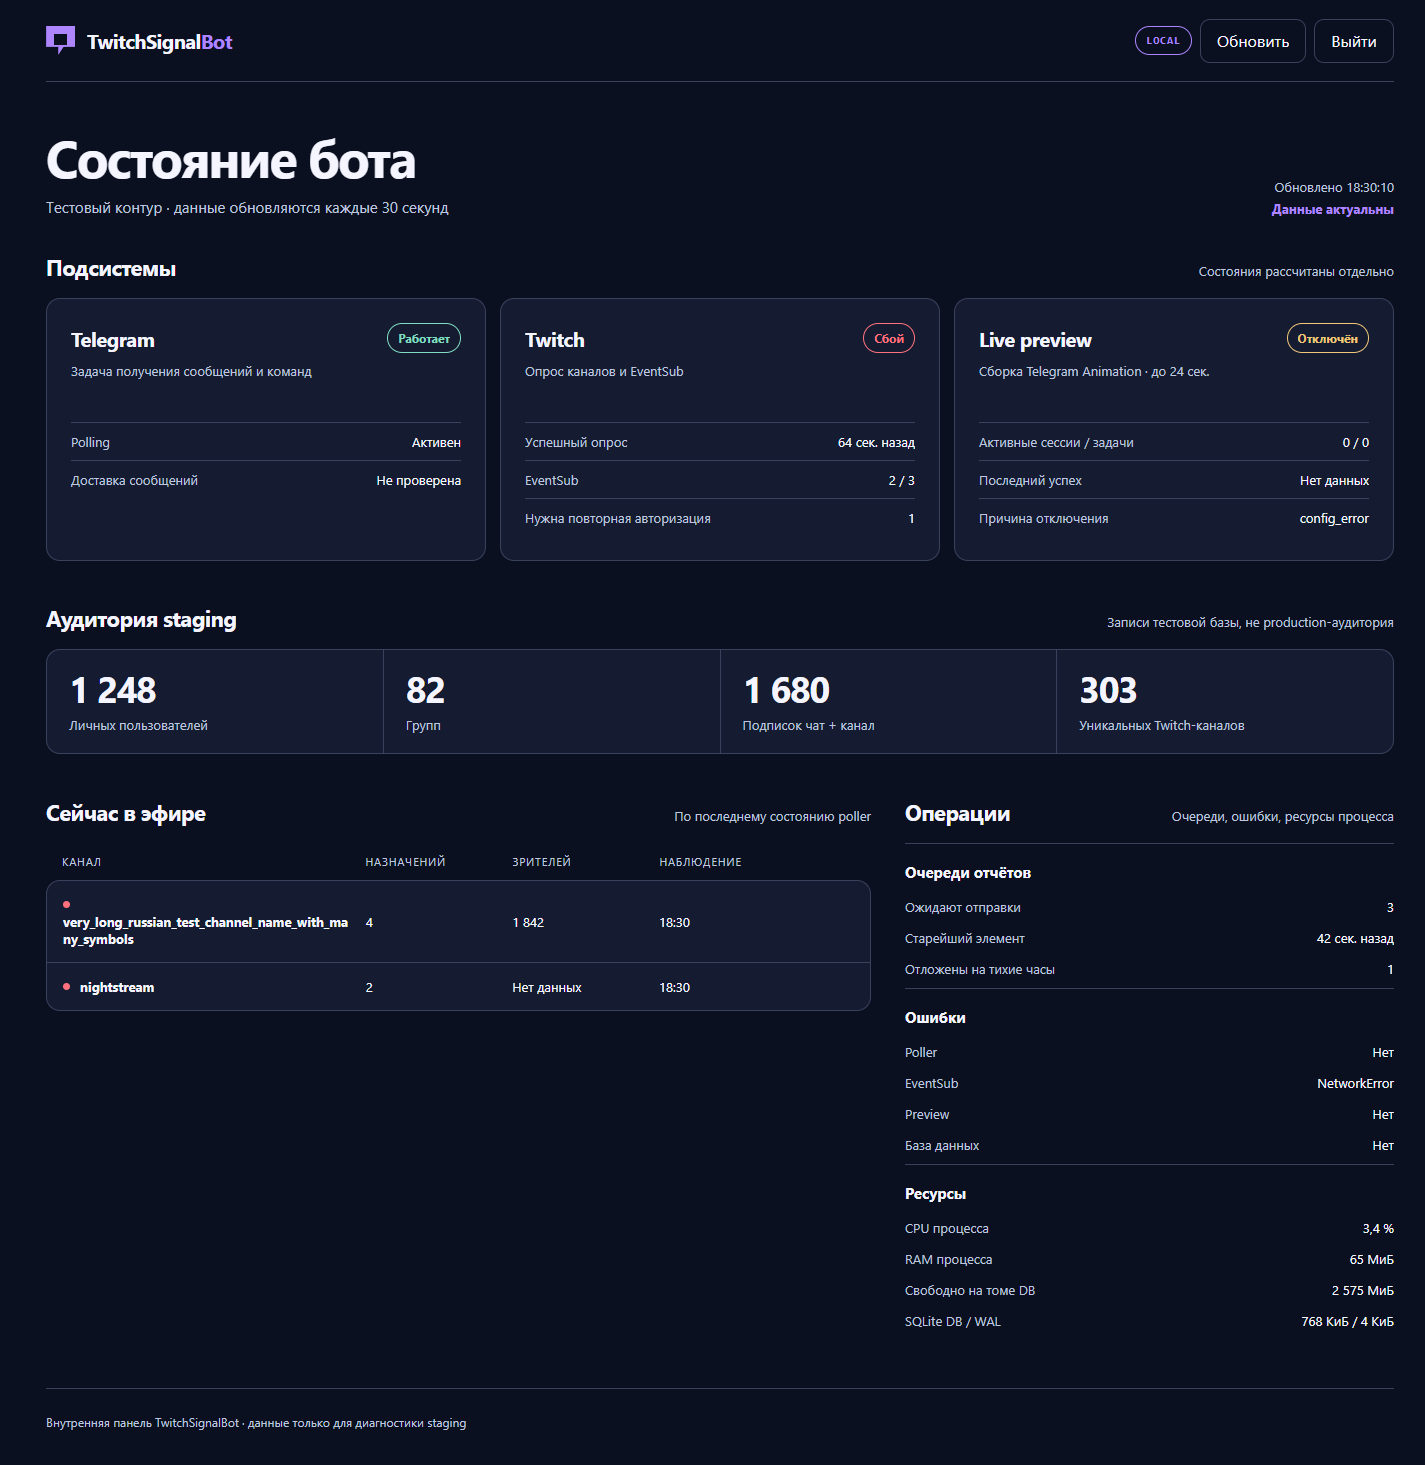
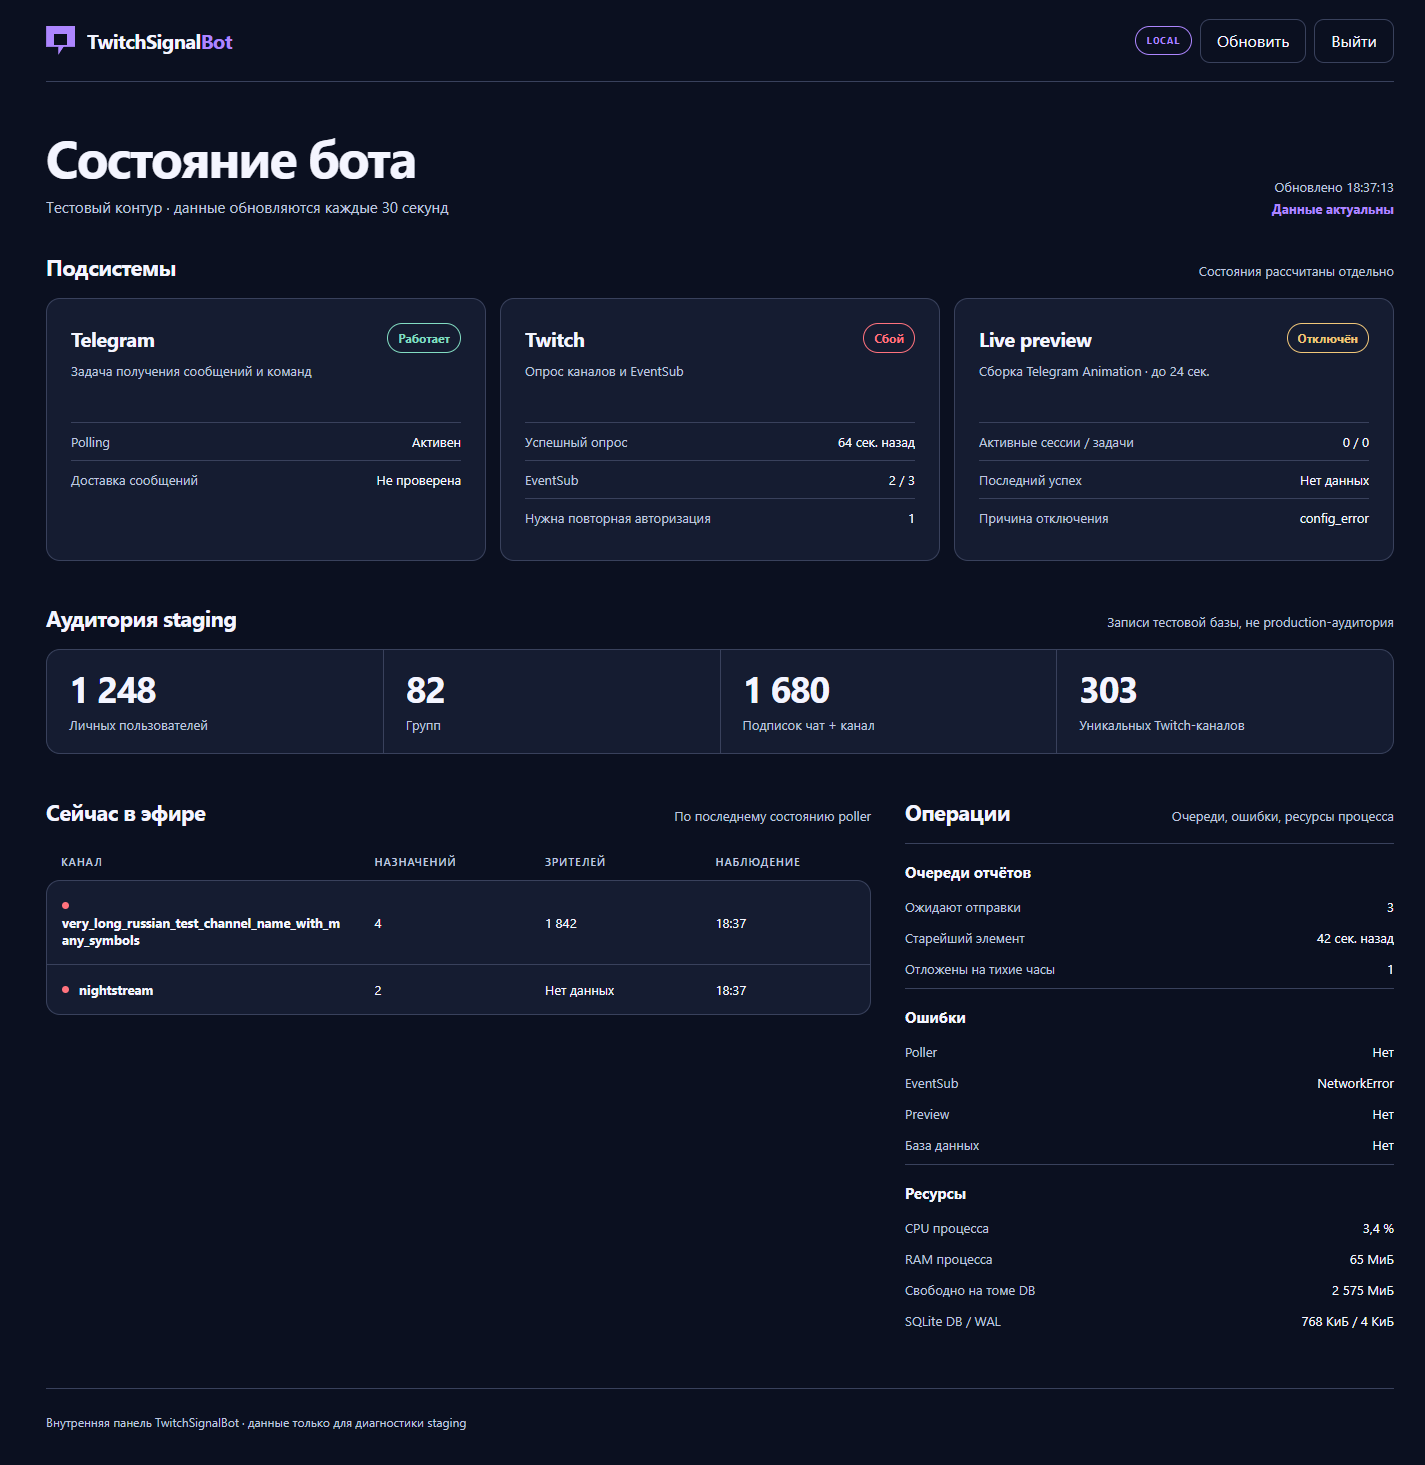
fix: strengthen dashboard table semantics and unknown states

diff --git a/bot/admin_ui/index.html b/bot/admin_ui/index.html
@@ -4,11 +4,14 @@
   <meta charset="utf-8">
   <meta name="viewport" content="width=device-width, initial-scale=1">
   <meta name="color-scheme" content="dark light">
+  <meta name="theme-color" content="#0B1020" media="(prefers-color-scheme: dark)">
+  <meta name="theme-color" content="#F3F3FA" media="(prefers-color-scheme: light)">
   <title>Панель владельца · TwitchSignalBot</title>
   <link rel="stylesheet" href="/admin/panel.css">
   <script src="/admin/panel.js" defer></script>
 </head>
 <body>
+  <a class="skip-link" href="#main-content">К содержанию</a>
   <div class="shell">
     <header class="topbar">
       <div class="brand" aria-label="TwitchSignalBot"><span class="brand-mark" aria-hidden="true"></span><span>TwitchSignal<span class="brand-bot">Bot</span></span></div>
@@ -19,7 +22,7 @@
       </div>
     </header>
 
-    <main>
+    <main id="main-content" tabindex="-1">
       <div class="page-intro">
         <div><h1>Состояние бота</h1><p>Тестовый контур · данные обновляются каждые 30 секунд</p></div>
         <div class="update-meta" role="status" aria-live="polite"><span id="updated-at">Загрузка…</span><span class="freshness" id="freshness">Ожидание данных</span></div>
@@ -42,7 +45,7 @@
       </section>
 
       <div class="lower-grid">
-        <section class="live-section" aria-labelledby="live-heading"><div class="section-head"><h2 id="live-heading">Сейчас в эфире</h2><p>По последнему состоянию poller</p></div><div class="live-header" aria-hidden="true"><span>Канал</span><span>Назначений</span><span>Зрителей</span><span>Наблюдение</span></div><div id="live-list" class="live-list"><p class="empty">Загрузка…</p></div></section>
+        <section class="live-section" aria-labelledby="live-heading"><div class="section-head"><h2 id="live-heading">Сейчас в эфире</h2><p>По последнему состоянию poller</p></div><table class="live-table"><thead><tr><th scope="col">Канал</th><th scope="col">Назначений</th><th scope="col">Зрителей</th><th scope="col">Наблюдение</th></tr></thead><tbody id="live-list"><tr class="empty-row"><td colspan="4">Загрузка…</td></tr></tbody></table></section>
         <section class="operations-section" aria-labelledby="operations-heading"><div class="section-head"><h2 id="operations-heading">Операции</h2><p>Очереди, ошибки, ресурсы процесса</p></div><div class="operation-group"><h3>Очереди отчётов</h3><dl><div><dt>Ожидают отправки</dt><dd id="queue-pending">—</dd></div><div><dt>Старейший элемент</dt><dd id="queue-age">—</dd></div><div><dt>Отложены на тихие часы</dt><dd id="queue-deferred">—</dd></div></dl></div><div class="operation-group"><h3>Ошибки</h3><dl><div><dt>Poller</dt><dd id="error-poller">—</dd></div><div><dt>EventSub</dt><dd id="error-eventsub">—</dd></div><div><dt>Preview</dt><dd id="error-preview">—</dd></div><div><dt>База данных</dt><dd id="error-database">—</dd></div></dl></div><div class="operation-group"><h3>Ресурсы</h3><dl><div><dt>CPU процесса</dt><dd id="resource-cpu">—</dd></div><div><dt>RAM процесса</dt><dd id="resource-ram">—</dd></div><div><dt>Свободно на томе DB</dt><dd id="resource-disk">—</dd></div><div><dt>SQLite DB / WAL</dt><dd id="resource-db">—</dd></div></dl></div></section>
       </div>
     </main>

diff --git a/bot/admin_ui/panel.css b/bot/admin_ui/panel.css
@@ -5,3 +5,5 @@
 @media(max-width:620px){.topbar{min-height:76px;align-items:flex-start;flex-direction:column;padding:17px 0;gap:14px}.topbar-actions{width:100%;justify-content:space-between}.brand{font-size:18px}.page-intro{padding:31px 0 27px;align-items:flex-start;flex-direction:column;gap:17px}.update-meta{text-align:left}.section-head{align-items:flex-start;flex-direction:column;gap:4px}.health-grid{grid-template-columns:1fr}.health-panel:last-child{grid-column:auto}.health-panel{padding:20px}.health-description{min-height:0}.audience-section,.lower-grid{margin-top:34px}.audience-grid>div{padding:17px}.audience-grid strong{font-size:30px}.live-header{display:none}.live-row{grid-template-columns:1fr 1fr;gap:12px}.live-row span:first-child{grid-column:1/-1}.live-row small{display:block;margin-bottom:4px}.lower-grid{gap:28px}}
 @media(max-width:360px){.button{padding:0 10px}.environment{padding:7px 8px}.audience-grid span{font-size:12px}}
 @media(prefers-reduced-motion:reduce){html{scroll-behavior:auto}.button{transition:none}}
+.skip-link{position:absolute;top:-80px;left:16px;z-index:10;background:var(--color-accent);color:var(--color-canvas);padding:11px 15px;border-radius:8px}.skip-link:focus{top:12px}h1,h2,h3{text-wrap:balance}.button{touch-action:manipulation;-webkit-tap-highlight-color:transparent}.live-table{width:100%;border-collapse:separate;border-spacing:0;table-layout:fixed;font-size:13px}.live-table th{text-align:left;text-transform:uppercase;letter-spacing:.07em;font-size:11px;font-weight:500;color:var(--color-muted);padding:11px 15px}.live-table th:first-child{width:38%}.live-table td{background:var(--color-surface);padding:16px 15px;border-top:1px solid var(--color-border);font-variant-numeric:tabular-nums;overflow-wrap:anywhere}.live-table tbody tr:first-child td{border-top:1px solid var(--color-border)}.live-table tbody tr:last-child td{border-bottom:1px solid var(--color-border)}.live-table td:first-child{border-left:1px solid var(--color-border)}.live-table td:last-child{border-right:1px solid var(--color-border)}.live-table tbody tr:first-child td:first-child{border-top-left-radius:var(--radius)}.live-table tbody tr:first-child td:last-child{border-top-right-radius:var(--radius)}.live-table tbody tr:last-child td:first-child{border-bottom-left-radius:var(--radius)}.live-table tbody tr:last-child td:last-child{border-bottom-right-radius:var(--radius)}.live-table .live-login{font-weight:700}.live-table .live-login:before{content:"";display:inline-block;width:7px;height:7px;background:var(--color-danger);border-radius:50%;margin-right:10px;vertical-align:2px}.live-table .empty-row td{color:var(--color-muted)}
+@media(max-width:620px){.live-table,.live-table tbody,.live-table tr,.live-table td{display:block;width:100%}.live-table thead{display:none}.live-table tbody tr{display:grid;grid-template-columns:1fr 1fr;background:var(--color-surface);border:1px solid var(--color-border);border-bottom:0;padding:14px}.live-table tbody tr:first-child{border-radius:var(--radius) var(--radius) 0 0}.live-table tbody tr:last-child{border-bottom:1px solid var(--color-border);border-radius:0 0 var(--radius) var(--radius)}.live-table tbody tr:only-child{border-radius:var(--radius)}.live-table td{border:0!important;padding:6px 4px}.live-table td:first-child{grid-column:1/-1}.live-table td:before{content:attr(data-label);display:block;color:var(--color-muted);font-size:11px;font-weight:400;margin-bottom:4px}.live-table .empty-row td:before{display:none}}

diff --git a/bot/admin_ui/panel.js b/bot/admin_ui/panel.js
@@ -24,21 +24,24 @@ function put(id, text) { $(id).textContent = text; }
 function renderLive(rows) {
   const list = $('live-list');
   list.replaceChildren();
-  if (rows === null) { const p = document.createElement('p'); p.className='empty'; p.textContent='Список эфиров временно недоступен'; list.append(p); return; }
-  if (!rows.length) { const p = document.createElement('p'); p.className='empty'; p.textContent='Сейчас нет зафиксированных эфиров'; list.append(p); return; }
+  if (rows === null || !rows.length) {
+    const tr=document.createElement('tr'); tr.className='empty-row';
+    const td=document.createElement('td'); td.colSpan=4;
+    td.textContent=rows === null ? 'Список эфиров временно недоступен' : 'Сейчас нет зафиксированных эфиров';
+    tr.append(td); list.append(tr); return;
+  }
   for (const row of rows) {
-    const article = document.createElement('div'); article.className='live-row';
+    const tr = document.createElement('tr');
     for (const [label, content, cls] of [
       ['Канал', row.login || 'Нет данных', 'live-login'],
       ['Назначений', value(row.destinations), ''],
       ['Зрителей', value(row.viewers), ''],
       ['Наблюдение', row.observed_at ? new Date(row.observed_at * 1000).toLocaleTimeString('ru-RU',{hour:'2-digit',minute:'2-digit'}) : 'Нет данных', '']
     ]) {
-      const span=document.createElement('span'); if (cls) span.className=cls;
-      const small=document.createElement('small'); small.textContent=label;
-      span.append(small,document.createTextNode(content)); article.append(span);
+      const td=document.createElement('td'); if (cls) td.className=cls;
+      td.dataset.label=label; td.textContent=content; tr.append(td);
     }
-    list.append(article);
+    list.append(tr);
   }
 }
 function render(data) {

diff --git a/bot/admin_web.py b/bot/admin_web.py
@@ -35,8 +35,8 @@ def _login_page(error: str = "") -> str:
         '<form action="/admin/login" method="post">'
         '<label for="access_key">Ключ доступа</label>'
         '<input id="access_key" name="access_key" type="password" autocomplete="current-password" required>'
-        '<button type="submit">Войти</button></form>'
-        f'{error_html}<p class="fine">TwitchSignalBot · staging</p></main></body></html>'
+        f'{error_html}<button type="submit">Войти</button></form>'
+        '<p class="fine">TwitchSignalBot · staging</p></main></body></html>'
     )
 
 

diff --git a/tests/test_admin_ui.py b/tests/test_admin_ui.py
@@ -44,6 +44,8 @@ class AdminUiRoutesTests(unittest.IsolatedAsyncioTestCase):
             self.assertEqual(response.status, 200)
             self.assertIn('id="health-grid"', body)
             self.assertIn('id="live-list"', body)
+            self.assertIn('<table', body)
+            self.assertIn('href="#main-content"', body)
             self.assertIn('src="/admin/panel.js"', body)
         async with self.session.get(self.base + "/admin/panel.css") as response:
             self.assertEqual(response.status, 200)
